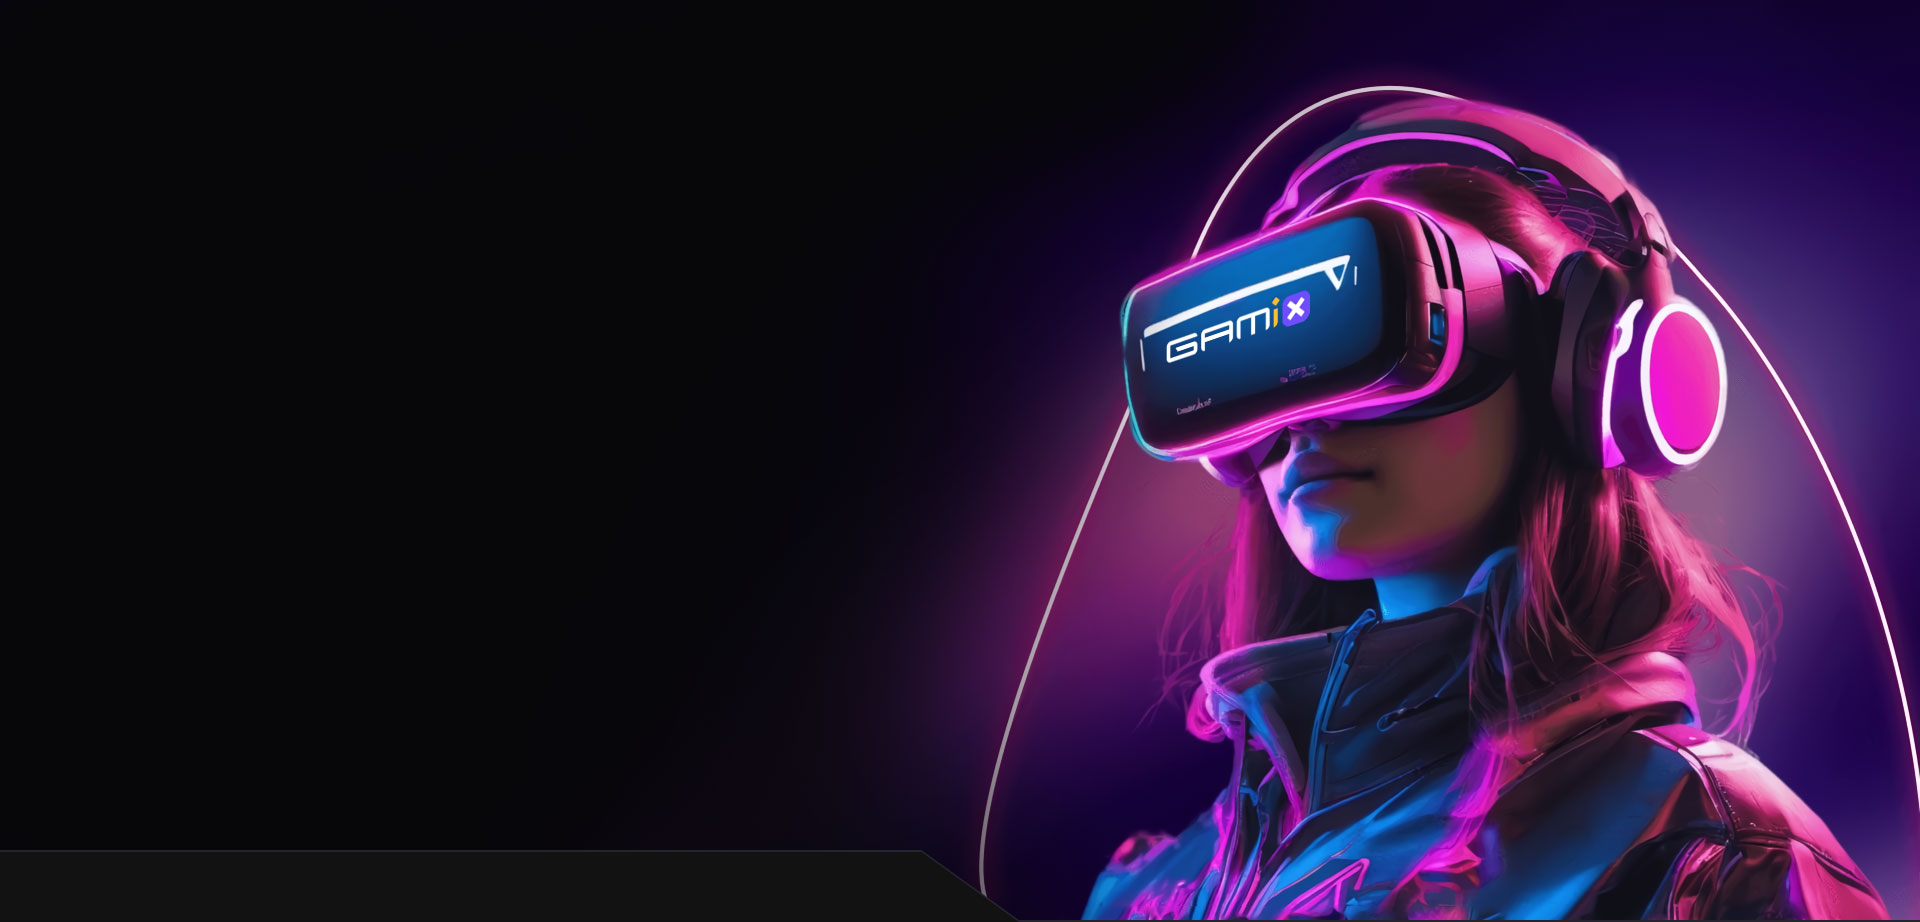
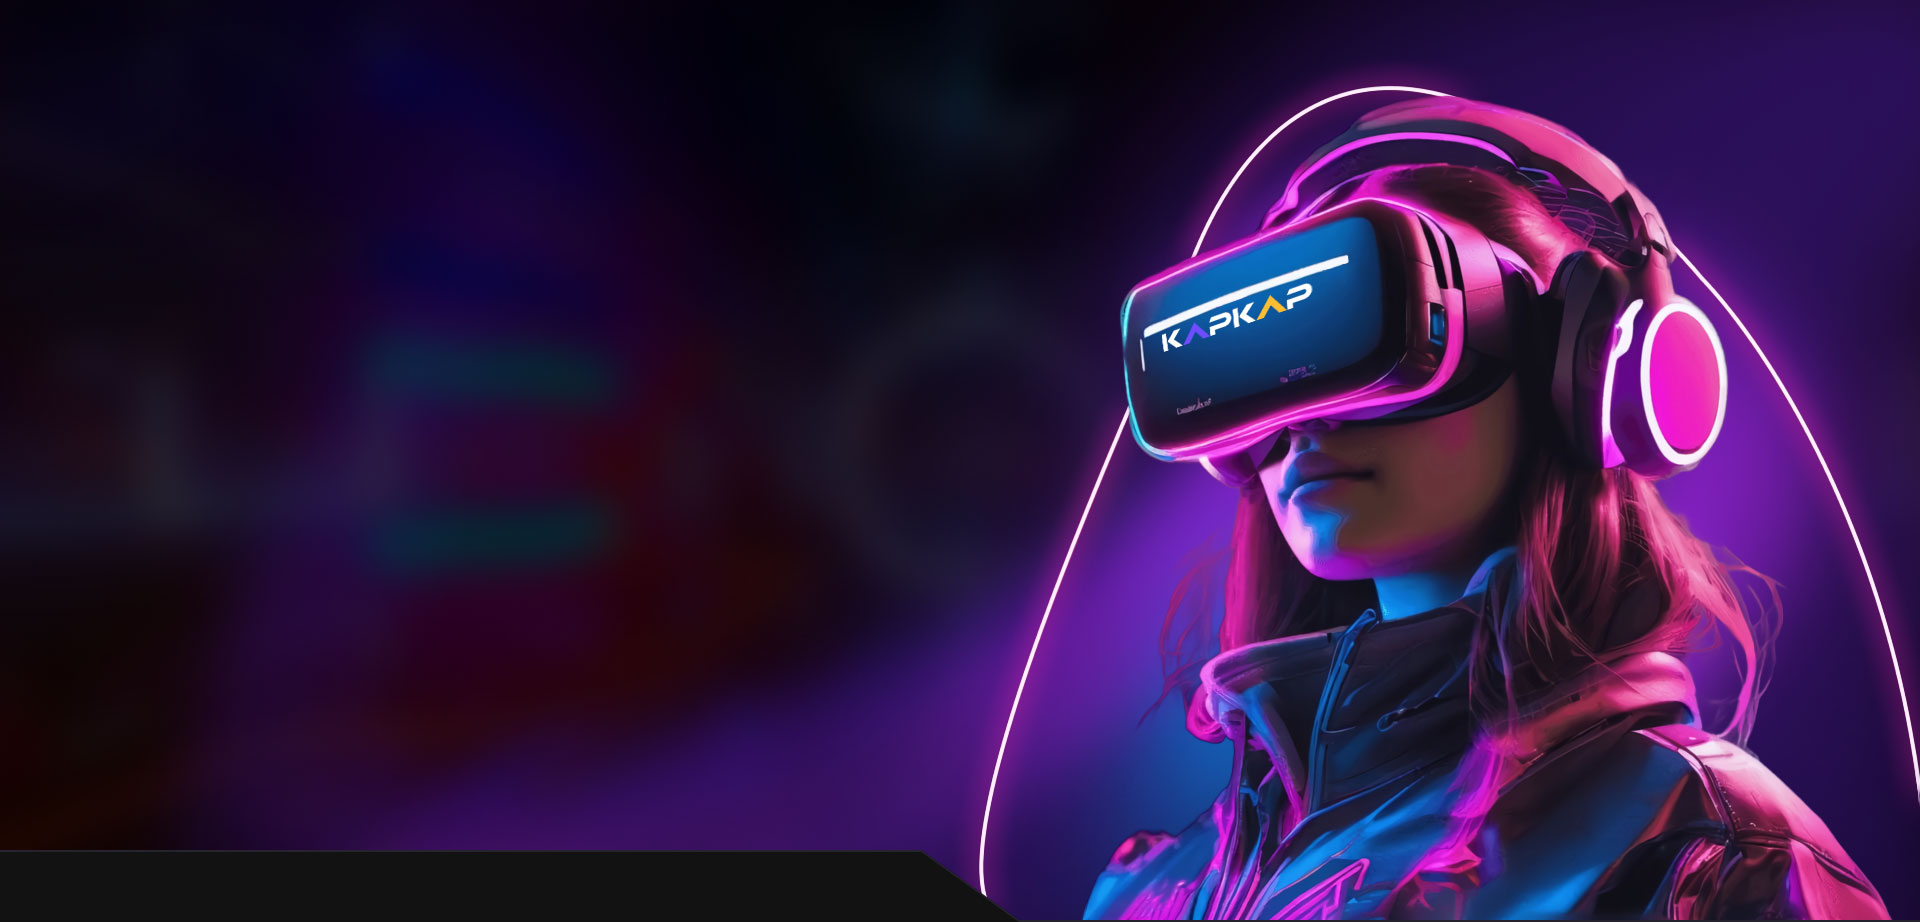
update

diff --git a/src/app/layout.tsx b/src/app/layout.tsx
@@ -31,7 +31,7 @@ export default function RootLayout({
 
   return (
     <html lang={locale == 'en' ? 'en' : 'zh-CN'}>
-      <title>Gamix - Attention is all you earn</title>
+      <title>KapKap - Attention is all you earn</title>
       <body>
         <AppProvider>
           <NextIntlClientProvider locale={locale} messages={messages[locale]} timeZone="America/New_York">
